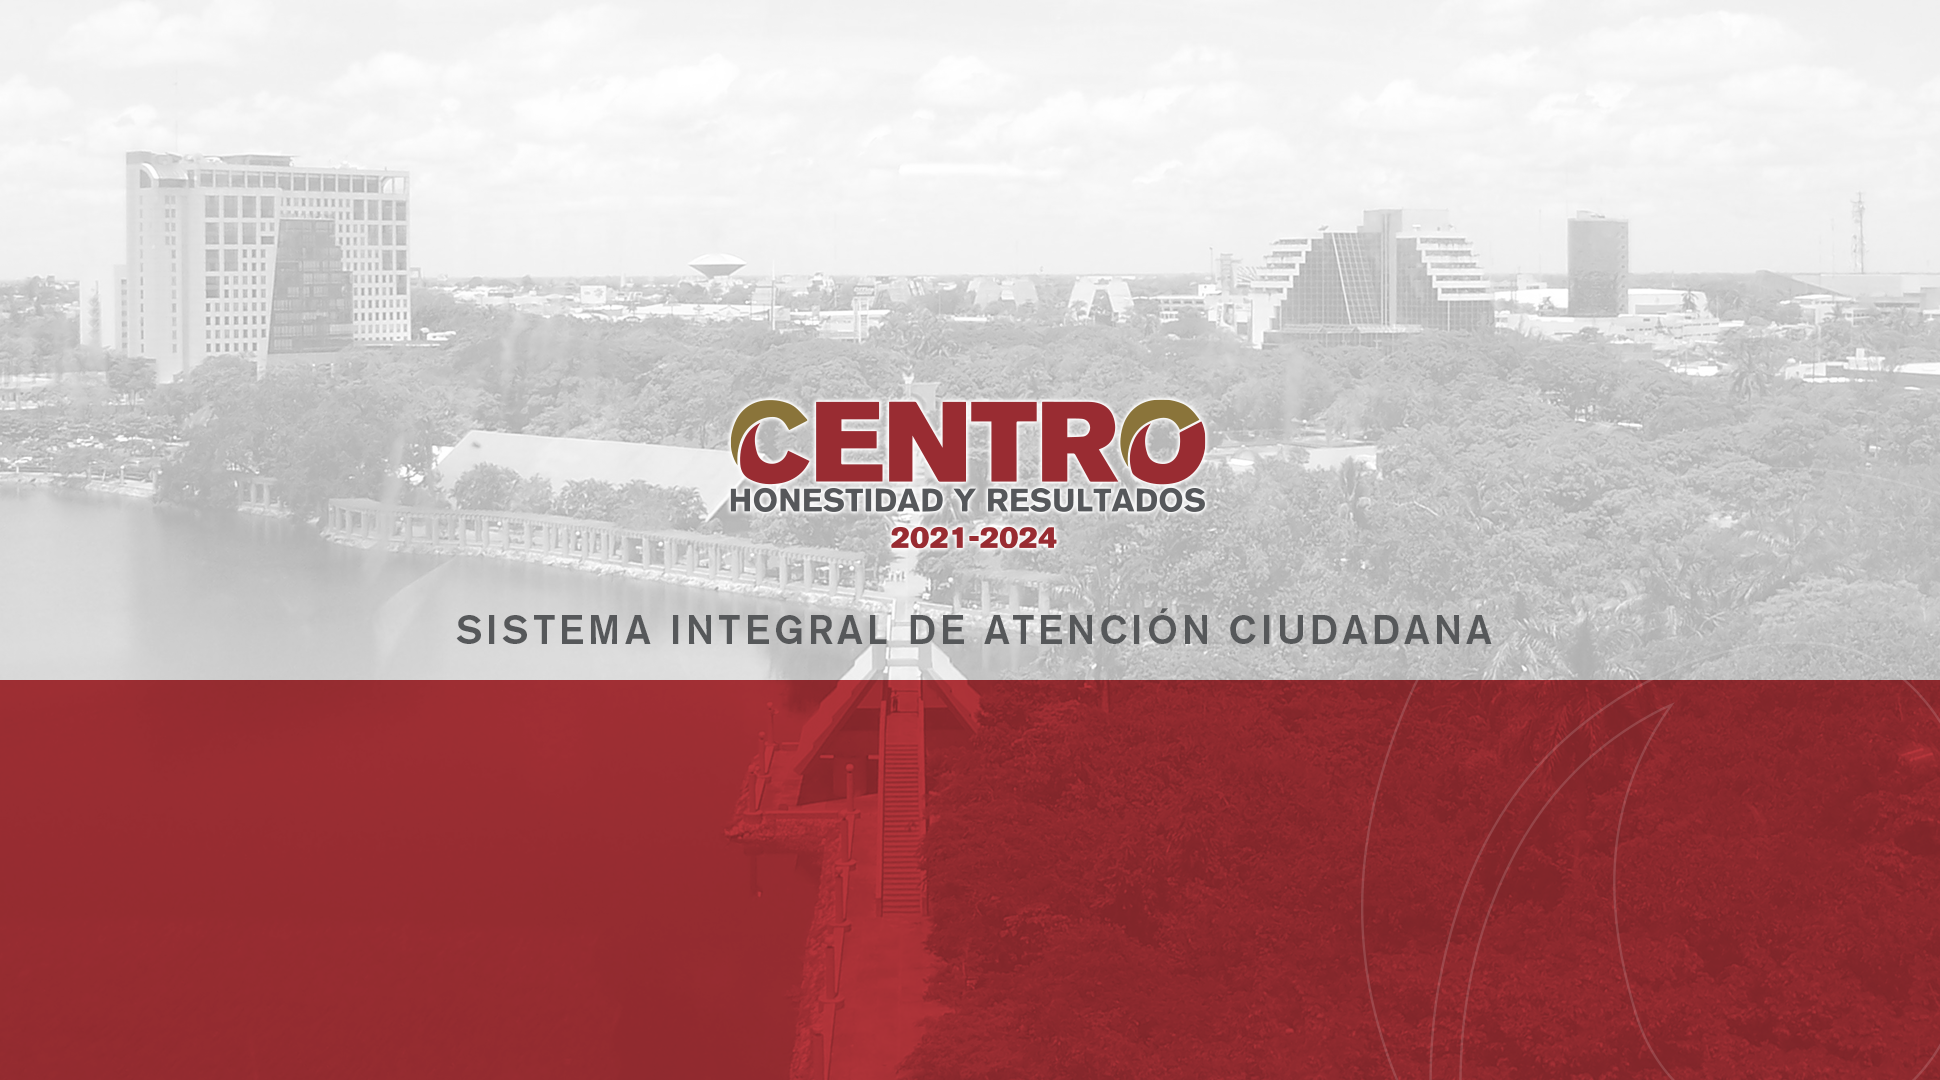
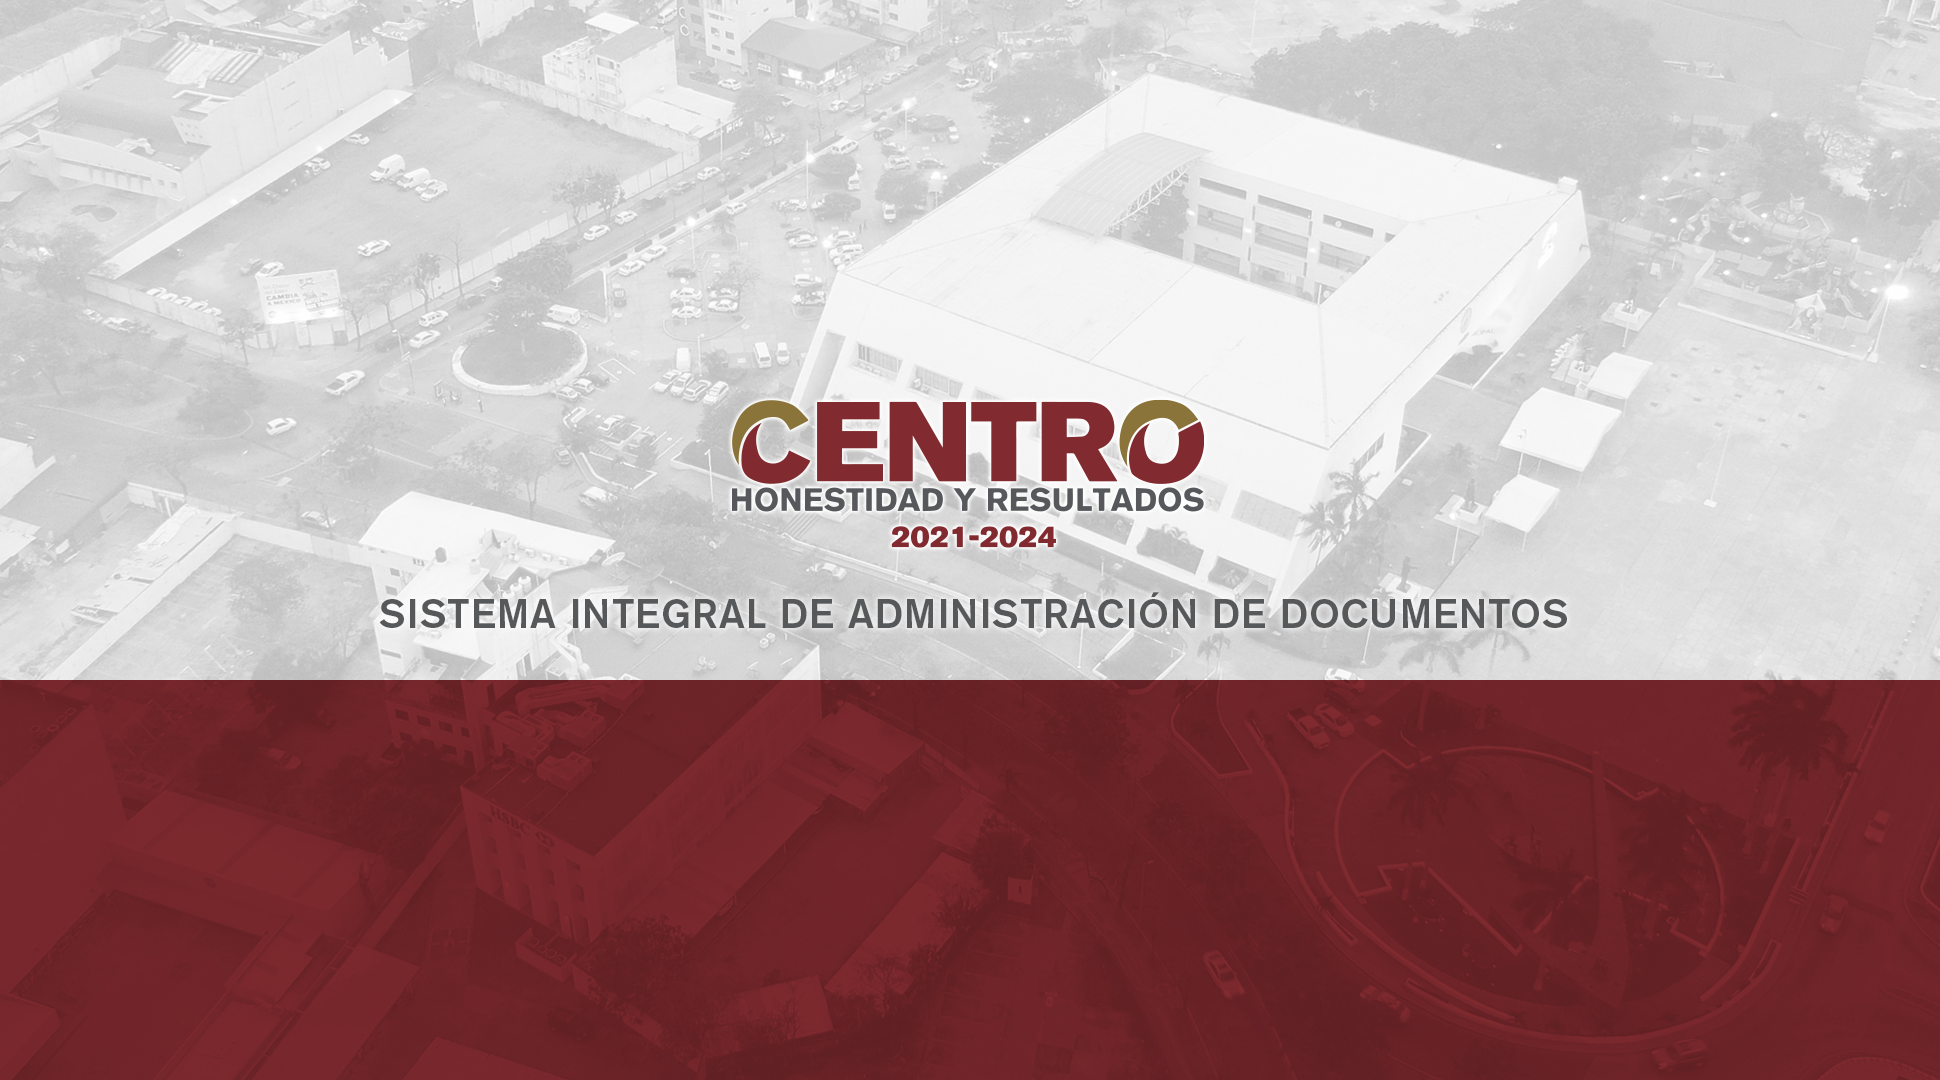
SIAD - V-1-17 | PDJ4.0 Beta

diff --git a/templates/layouts/proyectos/oficios/oficios_search_list.html b/templates/layouts/proyectos/oficios/oficios_search_list.html
@@ -3,15 +3,71 @@
 {% load static %}
 {% load bootstrap4 %}
 {% bootstrap_css %}
-{% bootstrap_javascript jquery='full' %}
+{#{% bootstrap_javascript jquery='full' %}#}
 {% load widget_tweaks %}
 {% load crispy_forms_tags %}
 {{ frmSet.media }}
 
 
 <div class="row mt-1">
-                <div class="col-12 cards-container">
-                  <div class="card border-0 shadow-sm">
+    <div class="col-sm-12 ">
+    <div class="row ">
+
+        <div class="col-sm-6 ">
+
+            <div class="card border-0 shadow-sm m-4">
+                <div class="card-header bgc-orange-d3">
+                    <h5 class="card-title text-110 text-white">
+                    Opciones de Consulta
+                    </h5>
+                </div>
+                <div class="card-body p-0 border-1 border-t-0 brc-orange-m2">
+                    <div class="p-3">
+                        <div class="form-row mb-1">
+                            <label for = "ciudadano" class="col-md-2 col-form-label">Nombre Completo</label>
+                            <div class="col-md-10">
+                                <input type="text" name="ciudadano" id="ciudadano"  class="form-control" />
+                            </div>
+                        </div>
+                    </div>
+                </div>
+            </div><!-- /.card-body -->
+
+        </div>
+
+        <div class="col-sm-6">
+
+            <div class="card border-0 shadow-sm m-4 ">
+                <div class="card-header bgc-purple-d3">
+                    <h5 class="card-title text-110 text-white">
+                    Otros Datos
+                    </h5>
+                </div>
+                <div class="card-body p-0 border-1 border-t-0 brc-purple-m2">
+                    <div class="p-3">
+{#                        <div class="form-row mb-1">#}
+{#                            <label for = "ciudadano" class="col-md-2 col-form-label">Nombre Completo</label>#}
+{#                            <div class="col-md-10">#}
+{#                                <input type="text" name="ciudadano" id="ciudadano"  class="form-control" />#}
+{#                            </div>#}
+{#                        </div>#}
+                    </div>
+                </div>
+            </div><!-- /.card-body -->
+
+        </div>
+        </div>
+
+    </div>
+</div>
+
+<div class="row mt-1">
+
+    <div class="col-12">
+
+
+
+                  <div class="card border-0 shadow-sm m-4">
                     <div class="card-header bgc-green-d3">
                       <h5 class="card-title text-110 text-white">
                        Lista de Oficios
@@ -20,16 +76,6 @@
                     </div><!-- /.card-header -->
 
                     <div class="card-body p-0 border-1 border-t-0 brc-green-m2">
-                      <div class="p-3">
-
-<div class="form-row mb-1">
-    <label for = "ciudadano" class="col-md-2 col-form-label">Nombre Completo</label>
-    <div class="col-md-10">
-        <input type="text" name="ciudadano" id="ciudadano"  class="form-control" />
-    </div>
-</div>
-
-                      </div>
                       <div class="p-3">
                         <table id="simple-table" class="mb-0 table table-borderless table-bordered-x brc-secondary-l3 text-dark-m2 radius-1 overflow-hidden">
                             <thead class="text-dark-tp3 bgc-grey-l4 text-90 border-b-1 brc-transparent">
@@ -45,32 +91,35 @@
                                 </tr>
                             </thead>
                           <tbody>
-{#                            {% for oficio in Oficios %}#}
-{#                                <tr>#}
-{#                                    <td>{{ oficio.consecutivo }}</td>#}
-{#                                    <td>{{ oficio.oficio }}</td>#}
-{#                                    <td>{{ oficio.remitente }}</td>#}
-{#                                    <td>{{ oficio.asunto }}</td>#}
-{#                                    <td>{{ oficio.fecha_documento }}</td>#}
-{#                                    <td>{{ oficio.fecha_captura }}</td>#}
-{#                                    <td><a href="{{ oficio.get_absolute_archivo_url }}" target="_blank">{{ oficio.get_oficio }}</a></td>#}
-{#                                    <td>#}
-{#                                      <div class="d-none d-lg-flex">#}
-{#                                        {% include "layouts/proyectos/components/respuesta_button.html" with RespuestaItem=oficio.get_respuesta_new %}#}
-{#                                        {% include "layouts/proyectos/components/edit_button.html" with EditItem=oficio.get_oficio_edit %}#}
-{#                                        {% include "layouts/proyectos/components/remove_button.html" with RemoveItem=oficio.get_oficio_remove %}#}
-{#                                      </div>#}
-{#                                    </td>#}
-{#                                </tr>#}
-{#                          {% endfor %}#}
+                            {% for oficio in Oficios %}
+                                <tr>
+                                    <td>{{ oficio.consecutivo }}</td>
+                                    <td>{{ oficio.oficio }}</td>
+                                    <td>{{ oficio.remitente }}</td>
+                                    <td>{{ oficio.asunto }}</td>
+                                    <td>{{ oficio.fecha_documento }}</td>
+                                    <td>{{ oficio.fecha_captura }}</td>
+                                    <td><a href="{{ oficio.get_absolute_archivo_url }}" target="_blank">{{ oficio.get_oficio }}</a></td>
+                                    <td>
+                                      <div class="d-none d-lg-flex">
+                                        {% include "layouts/proyectos/components/respuesta_button.html" with RespuestaItem=oficio.get_respuesta_new %}
+                                        {% include "layouts/proyectos/components/edit_button.html" with EditItem=oficio.get_oficio_edit %}
+                                        {% include "layouts/proyectos/components/remove_button.html" with RemoveItem=oficio.get_oficio_remove %}
+                                      </div>
+                                    </td>
+                                </tr>
+                          {% endfor %}
                           </tbody>
                         </table>
                       </div>
 
                       </div>
-                    </div><!-- /.card-body -->
-                  </div><!-- /.card -->
-                </div><!-- /.col -->
+                    </div>
+
+
+
+    </div>
+</div>
 
 
 <div class="col-md-2"></div>

diff --git a/templates/registration/login.html b/templates/registration/login.html
@@ -31,12 +31,18 @@
                           <!-- default carousel section that you see when you open login page -->
                           <div style="background-image: url(assets/image/login-bg-1.svg);" class="px-3 bgc-blue-l4 d-flex flex-column align-items-center justify-content-center">
                             <a class="mt-5 mb-2" href="{% url 'welcome' %}">
-                              <i class="fa fa-leaf text-success-m2 fa-3x"></i>
+                              <i class="fa fa-book-reader text-orange-m2 fa-3x"></i>
                             </a>
 
                             <h2 class="text-primary-d1">
-                              SIAD <span class="text-80 text-dark-l1">Application</span>
+                              SIAD
                             </h2>
+                            <h5 class="text-primary-d1">
+                                <span class="text-80 text-dark-tp1">Sistema Integral de Administración de Documentos</span>
+                            </h5>
+                            <div class="mt-5 mx-4 text-dark-tp3">
+                                <img src="/static/images/logo-1.png">
+                            </div>
 
                             <div class="mt-5 mx-4 text-dark-tp3">
                               <hr class="mb-1 brc-black-tp10" />
@@ -79,7 +85,7 @@
                         <!-- show this in desktop -->
                         <div class="d-none d-lg-block col-md-6 offset-md-3 mt-lg-4 px-0">
                           <h4 class="text-dark-tp4 border-b-1 brc-secondary-l2 pb-1 text-130">
-                            <i class="fa fa-coffee text-orange-m1 mr-1"></i>
+                            <i class="fa fa-coffee text-cafe mr-1"></i>
                             Bienvenido
                           </h4>
                         </div>

diff --git a/templates/registration.html b/templates/registration.html
@@ -2,6 +2,7 @@
 {% load static %}
 {% block styles__ %}
     <link rel="stylesheet" type="text/css" href="{% static './views/pages/page-login/@page-style.css' %}">
+    <link rel="stylesheet" type="text/css" href="{% static '/css/atemun.css' %}?timestamp()">
 {% endblock %}
 
 {% block content %}

diff --git a/templates/layouts/proyectos/oficios/oficio_edit.html b/templates/layouts/proyectos/oficios/oficio_edit.html
@@ -2,7 +2,7 @@
 {% block contenedor %}
 {% load bootstrap4 %}
 {% bootstrap_css %}
-{% bootstrap_javascript jquery='full' %}
+{#{% bootstrap_javascript jquery='full' %}#}
 {% load widget_tweaks %}
 {% load crispy_forms_tags %}
 {{ frmSet.media }}

diff --git a/templates/layouts/proyectos/oficios/oficio_new.html b/templates/layouts/proyectos/oficios/oficio_new.html
@@ -2,7 +2,7 @@
 {% block contenedor %}
 {% load bootstrap4 %}
 {% bootstrap_css %}
-{% bootstrap_javascript jquery='full' %}
+{#{% bootstrap_javascript jquery='full' %}#}
 {% load widget_tweaks %}
 {% load crispy_forms_tags %}
 {{ frmSet.media }}

diff --git a/templates/layouts/proyectos/oficios/respuestas/respuesta_edit.html b/templates/layouts/proyectos/oficios/respuestas/respuesta_edit.html
@@ -2,7 +2,7 @@
 {% block contenedor %}
 {% load bootstrap4 %}
 {% bootstrap_css %}
-{% bootstrap_javascript jquery='full' %}
+{#{% bootstrap_javascript jquery='full' %}#}
 {% load widget_tweaks %}
 {% load crispy_forms_tags %}
 {{ frmSet.media }}

diff --git a/templates/layouts/proyectos/oficios/respuestas/respuesta_new.html b/templates/layouts/proyectos/oficios/respuestas/respuesta_new.html
@@ -2,7 +2,7 @@
 {% block contenedor %}
 {% load bootstrap4 %}
 {% bootstrap_css %}
-{% bootstrap_javascript jquery='full' %}
+{#{% bootstrap_javascript jquery='full' %}#}
 {% load widget_tweaks %}
 {% load crispy_forms_tags %}
 {{ frmSet.media }}

diff --git a/templates/layouts/proyectos/oficios/oficios_list.html b/templates/layouts/proyectos/oficios/oficios_list.html
@@ -3,7 +3,7 @@
 {% load static %}
 {% load bootstrap4 %}
 {% bootstrap_css %}
-{% bootstrap_javascript jquery='full' %}
+{#{% bootstrap_javascript jquery='full' %}#}
 {% load widget_tweaks %}
 {% load crispy_forms_tags %}
 {{ frmSet.media }}

diff --git a/templates/layouts/proyectos/oficios/respuestas/respuestas_list.html b/templates/layouts/proyectos/oficios/respuestas/respuestas_list.html
@@ -3,7 +3,7 @@
 {% load static %}
 {% load bootstrap4 %}
 {% bootstrap_css %}
-{% bootstrap_javascript jquery='full' %}
+{#{% bootstrap_javascript jquery='full' %}#}
 {% load widget_tweaks %}
 {% load crispy_forms_tags %}
 {{ frmSet.media }}

diff --git a/proyecto/views.py b/proyecto/views.py
@@ -1,8 +1,6 @@
 from django.contrib.auth.decorators import login_required
 from django.contrib.auth.models import Group
-from django.db.models import Q
 from django.http import JsonResponse
-from django.template.response import TemplateResponse
 from django.views.decorators.csrf import csrf_exempt
 
 from home.models import Usuario
@@ -10,7 +8,6 @@ from proyecto.modelform.model_forms import OficioForm, RespuestaForm
 from proyecto.models import Oficio, Subdireccione, Respuestas
 from django.shortcuts import render, get_object_or_404
 from django.shortcuts import redirect, render
-from siad.settings import SECRET_KEY
 
 @login_required()
 def oficios_list(request, tipo_documento):
@@ -102,9 +99,18 @@ def oficios_remove(request, id, tipo_documento):
 
 @login_required()
 def oficios_search_list(request):
-        return render(request,'layouts/proyectos/oficios/oficios_search_list.html',
-                      {
-                      })
+    Objs = Oficio.objects.filter(oficio='ST/003/2022')
+    if request.method == 'POST':
+        Objs = Oficio.objects.filter(oficio='ST/003/2022')
+    # print(Objs)
+    user = Usuario.objects.filter(id=request.user.id).get()
+    roles = Group.objects.filter(user=request.user)
+    return render(request,'layouts/proyectos/oficios/oficios_search_list.html',
+                  {
+                      'Oficios': Objs,
+                      'User': user,
+                      'Roles': roles,
+                  })
 
 
 # ****************************************************************************************************************

diff --git a/proyecto/urls.py b/proyecto/urls.py
@@ -1,18 +1,8 @@
-from datetime import datetime
-
-from django.urls import path
-from . import views
-
-
 from django.conf.urls.static import static
-from django.contrib import admin
-from django.contrib.auth import views
-
 from proyecto.views import oficios_list, oficio_new, oficios_edit, oficios_remove, respuesta_new, \
     oficio_respuestas_list, respuesta_edit, respuesta_remove, oficios_search_list
 from siad import settings
-from django.urls import path, include
-
+from django.urls import path
 from .ajax.dependencias import getDependencias
 
 urlpatterns = [
@@ -27,7 +17,7 @@ urlpatterns = [
     path('respuesta_edit/<int:id>', respuesta_edit, name='respuesta_edit'),
     path('respuesta_remove/<int:id>', respuesta_remove, name='respuesta_remove'),
 
-  path('getDependencias/', getDependencias, name='/getDependencias'),
+    path('getDependencias/', getDependencias, name='/getDependencias'),
 
               ] + static(settings.MEDIA_URL, document_root=settings.MEDIA_ROOT)
 

diff --git a/proyecto/ajax/dependencias.py b/proyecto/ajax/dependencias.py
@@ -20,7 +20,7 @@ def getDependencias(request):
     response = {}
     if request.method == 'POST':
         Id = request.POST.get('dir_remitente')
-        print(Id)
+        # print(Id)
         dependencia = Dependencia.objects.filter(pk=Id).get()
         if dependencia:
             response = {
